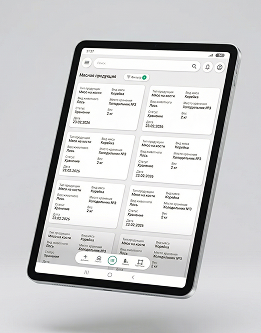
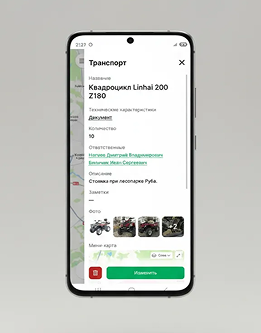
fixes

diff --git a/assets/js/main.js b/assets/js/main.js
@@ -324,6 +324,13 @@ const OHHO_PRODUCTS_BY_CATEGORY = {
       description:
           "Инструменты искусственного интеллекта, позволяют по фото и видео определить автомобиль и его государственный номер, сверить его с существующей базой и определить потенциального нарушителя и его маршрут передвижений, а также вести историю учета нарушений по данному автомобилю.",
     },
+    {
+      title: "Мобильное приложение с оффлайн режимом",
+      image: "assets/images/ohho/8.jpg",
+      meta: "Модуль системы",
+      description:
+        "Отдельное мобильное приложение превращает смартфон егеря или сотрудника в полноценный рабочий инструмент, который не зависит от наличия интернета. Все ключевые функции системы доступны в лесу, на маршруте и в самых удаленных уголках охотхозяйства с автоматической синхронизацией при появлении интернета.",
+    },
   ],
 };
 

diff --git a/assets/data/preview-3.html b/assets/data/preview-3.html
@@ -1,4 +1,4 @@
-<img class="card-logo maentak" src="assets/images/maentak.png" alt="Логотип охотхозяйства Паляўнічы маёнтак" />
+<img class="card-logo maentak" src="assets/images/maentak.svg" alt="Логотип охотхозяйства Паляўнічы маёнтак" />
 <h2>Охота и рыбалка </h2>
 <p>Организация индивидуальной и
     коллективной охоты, рыбалки и отдыха</p>
